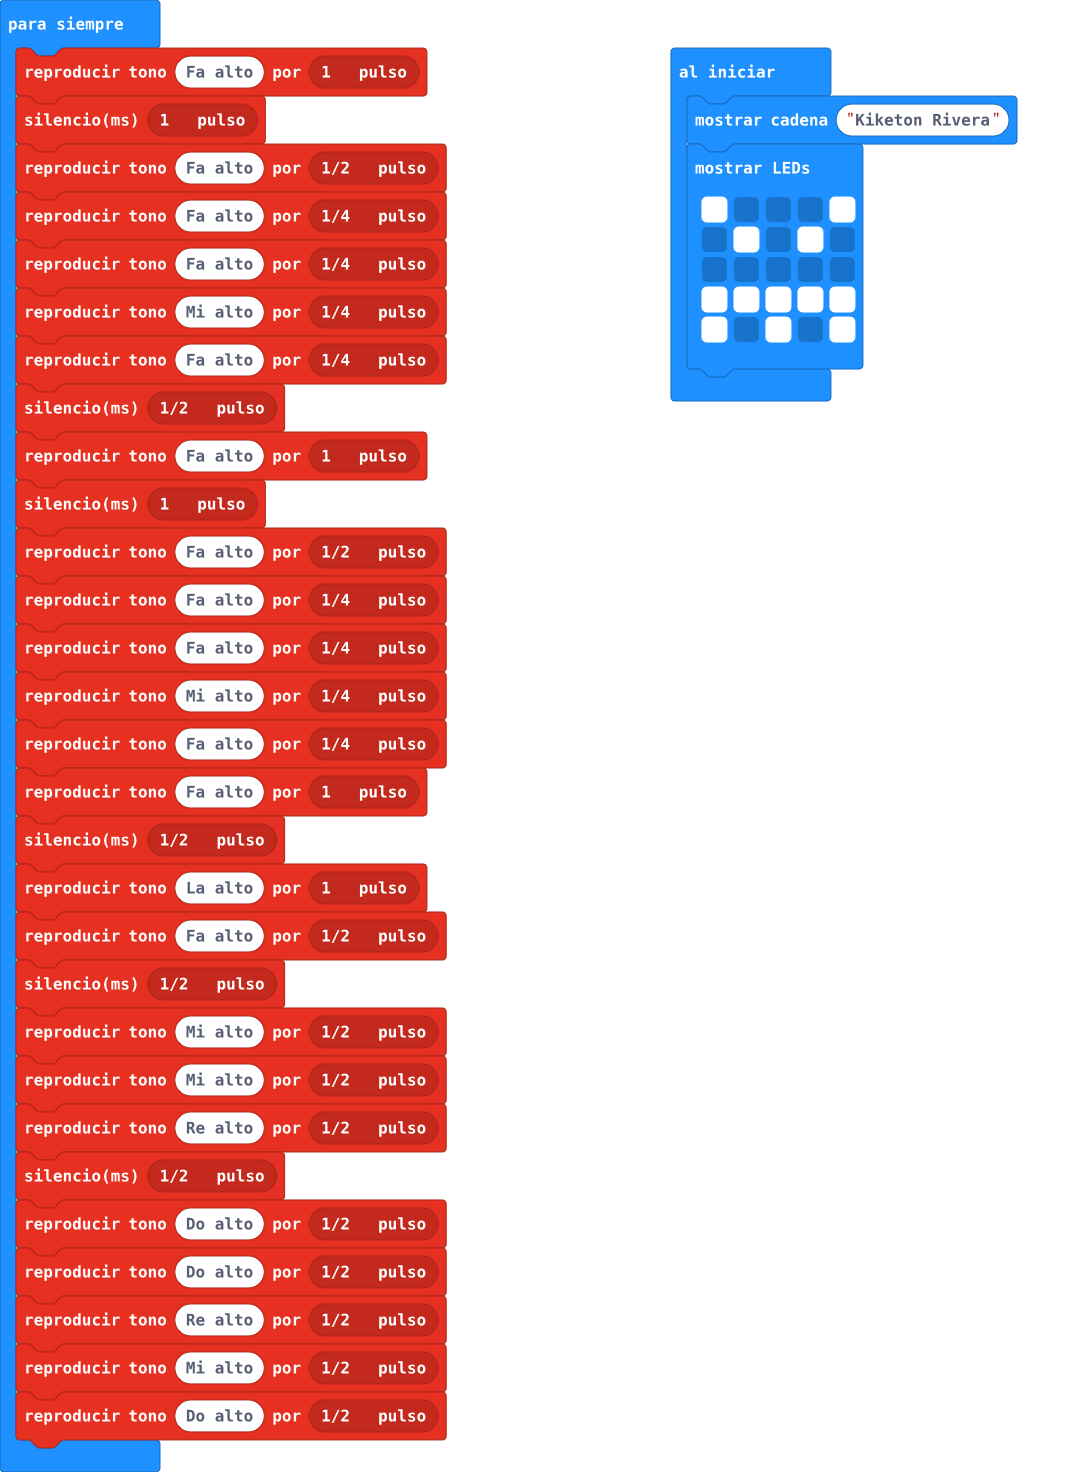
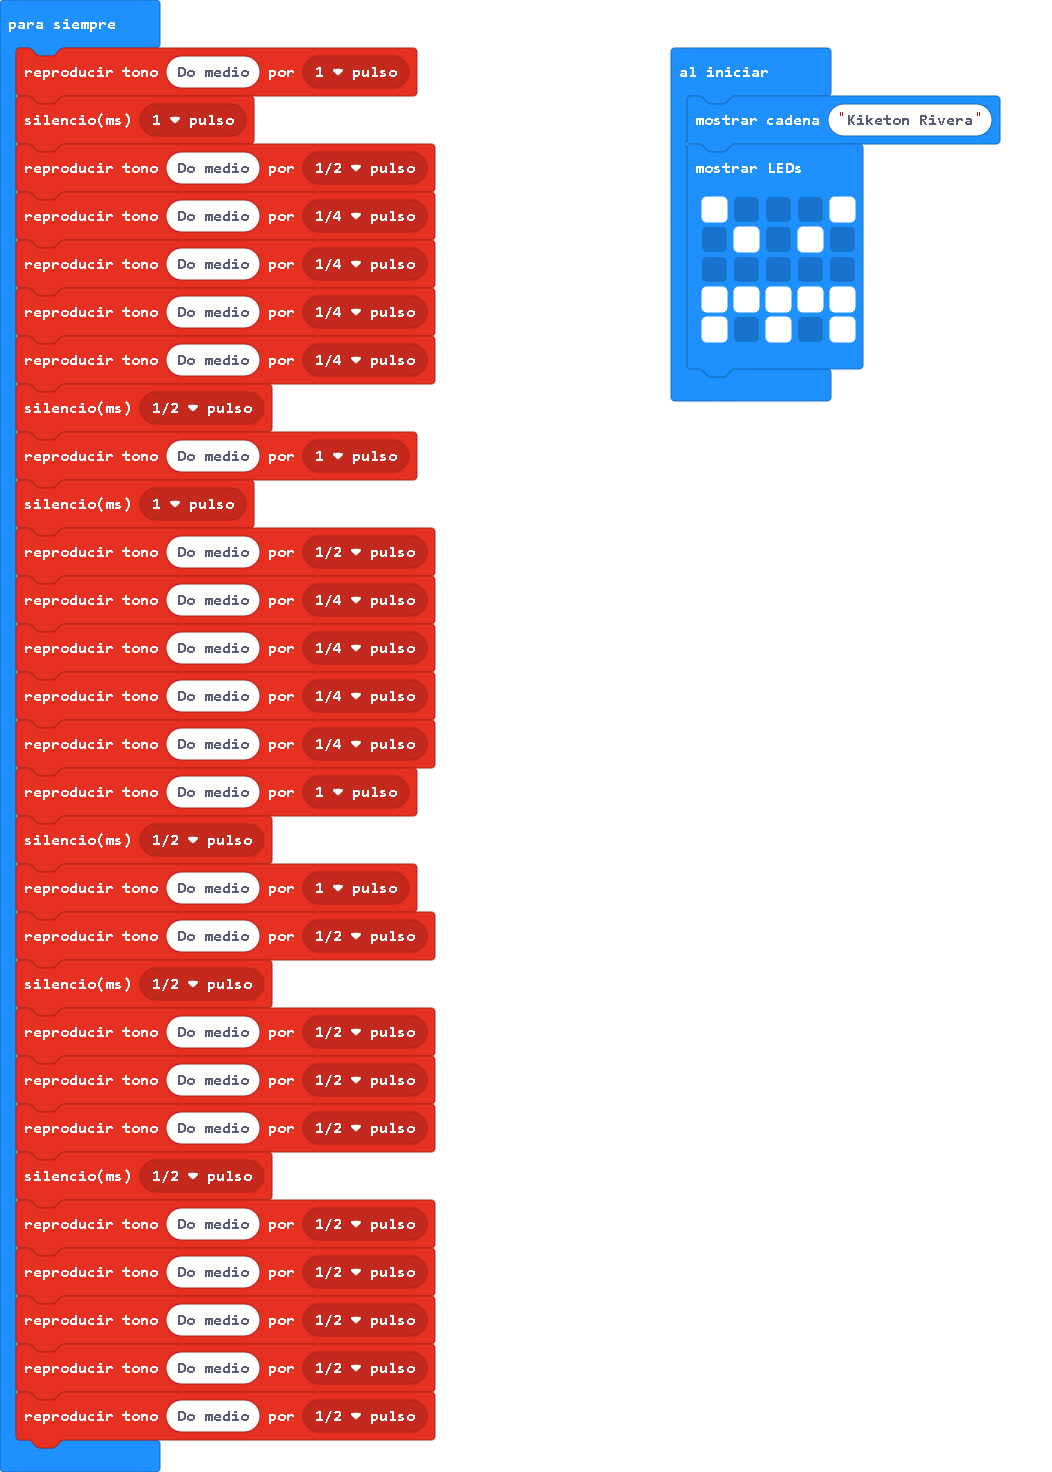
Actualizar pxt.json, main.blocks, main.ts

diff --git a/main.ts b/main.ts
@@ -7,33 +7,33 @@ basic.showLeds(`
     # . # . #
     `)
 basic.forever(function () {
-    music.playTone(698, music.beat(BeatFraction.Whole))
+    music.playTone(262, music.beat(BeatFraction.Whole))
     music.rest(music.beat(BeatFraction.Whole))
-    music.playTone(698, music.beat(BeatFraction.Half))
-    music.playTone(698, music.beat(BeatFraction.Quarter))
-    music.playTone(698, music.beat(BeatFraction.Quarter))
-    music.playTone(659, music.beat(BeatFraction.Quarter))
-    music.playTone(698, music.beat(BeatFraction.Quarter))
+    music.playTone(262, music.beat(BeatFraction.Half))
+    music.playTone(262, music.beat(BeatFraction.Quarter))
+    music.playTone(262, music.beat(BeatFraction.Quarter))
+    music.playTone(262, music.beat(BeatFraction.Quarter))
+    music.playTone(262, music.beat(BeatFraction.Quarter))
     music.rest(music.beat(BeatFraction.Half))
-    music.playTone(698, music.beat(BeatFraction.Whole))
+    music.playTone(262, music.beat(BeatFraction.Whole))
     music.rest(music.beat(BeatFraction.Whole))
-    music.playTone(698, music.beat(BeatFraction.Half))
-    music.playTone(698, music.beat(BeatFraction.Quarter))
-    music.playTone(698, music.beat(BeatFraction.Quarter))
-    music.playTone(659, music.beat(BeatFraction.Quarter))
-    music.playTone(698, music.beat(BeatFraction.Quarter))
-    music.playTone(698, music.beat(BeatFraction.Whole))
+    music.playTone(262, music.beat(BeatFraction.Half))
+    music.playTone(262, music.beat(BeatFraction.Quarter))
+    music.playTone(262, music.beat(BeatFraction.Quarter))
+    music.playTone(262, music.beat(BeatFraction.Quarter))
+    music.playTone(262, music.beat(BeatFraction.Quarter))
+    music.playTone(262, music.beat(BeatFraction.Whole))
     music.rest(music.beat(BeatFraction.Half))
-    music.playTone(880, music.beat(BeatFraction.Whole))
-    music.playTone(698, music.beat(BeatFraction.Half))
+    music.playTone(262, music.beat(BeatFraction.Whole))
+    music.playTone(262, music.beat(BeatFraction.Half))
     music.rest(music.beat(BeatFraction.Half))
-    music.playTone(659, music.beat(BeatFraction.Half))
-    music.playTone(659, music.beat(BeatFraction.Half))
-    music.playTone(587, music.beat(BeatFraction.Half))
+    music.playTone(262, music.beat(BeatFraction.Half))
+    music.playTone(262, music.beat(BeatFraction.Half))
+    music.playTone(262, music.beat(BeatFraction.Half))
     music.rest(music.beat(BeatFraction.Half))
-    music.playTone(523, music.beat(BeatFraction.Half))
-    music.playTone(523, music.beat(BeatFraction.Half))
-    music.playTone(587, music.beat(BeatFraction.Half))
-    music.playTone(659, music.beat(BeatFraction.Half))
-    music.playTone(523, music.beat(BeatFraction.Half))
+    music.playTone(262, music.beat(BeatFraction.Half))
+    music.playTone(262, music.beat(BeatFraction.Half))
+    music.playTone(262, music.beat(BeatFraction.Half))
+    music.playTone(262, music.beat(BeatFraction.Half))
+    music.playTone(262, music.beat(BeatFraction.Half))
 })
